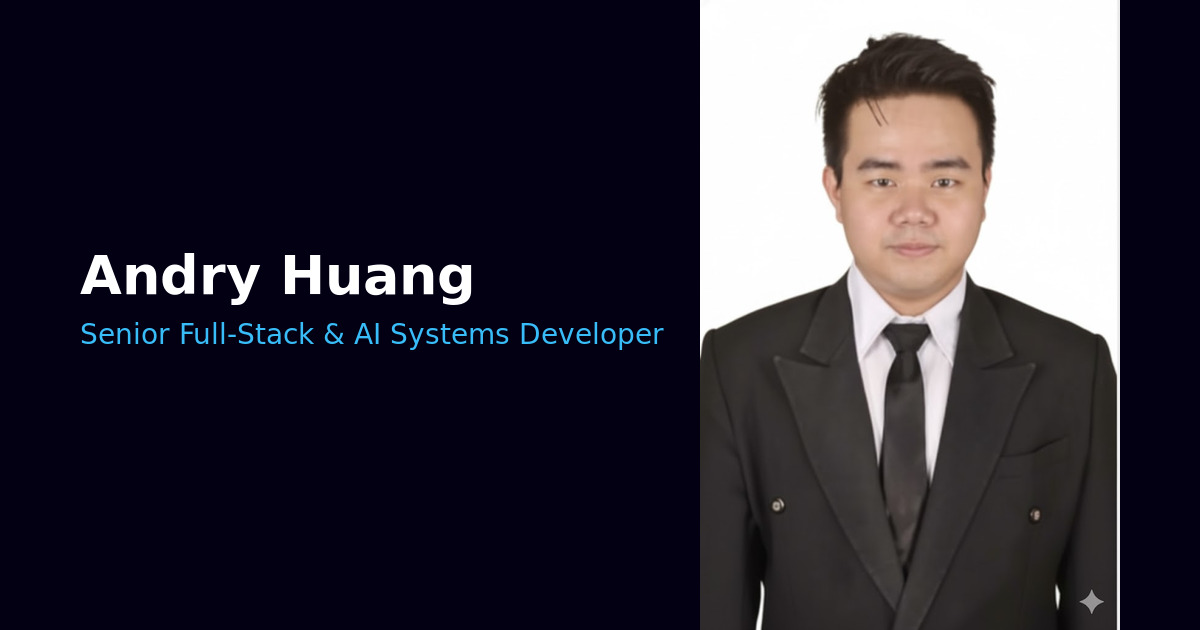
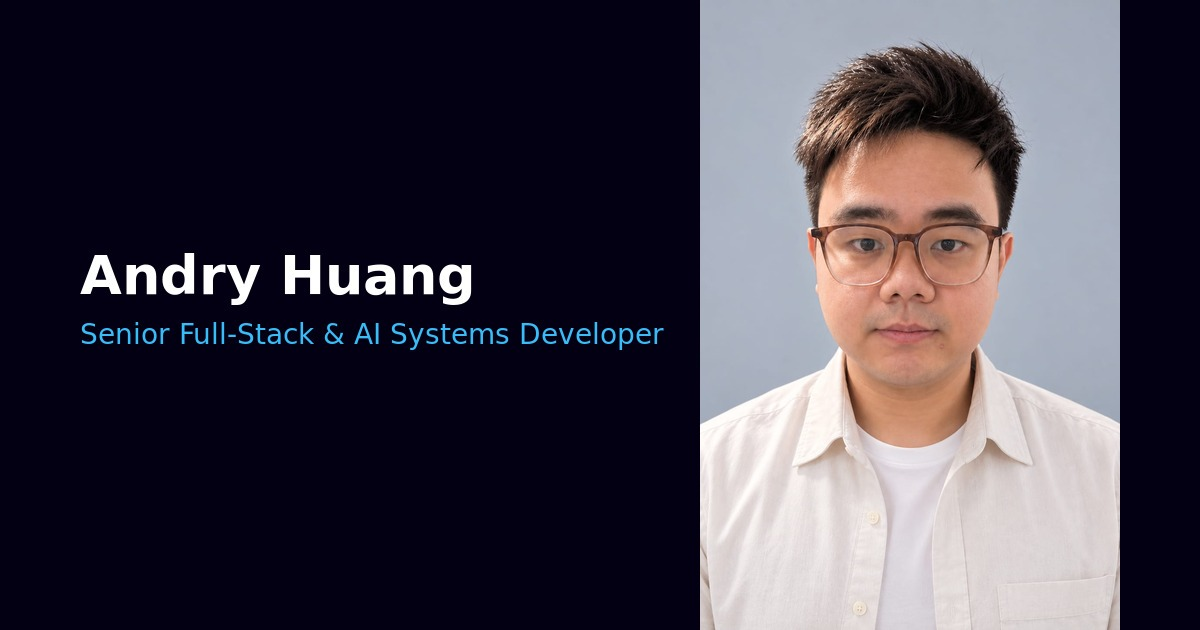
fix: update og image with current profile photo and add cache buster

diff --git a/src/app/layout.tsx b/src/app/layout.tsx
@@ -74,7 +74,7 @@ export const metadata: Metadata = {
     siteName: "Andry Huang Portfolio",
     images: [
       {
-        url: "/img/og-image.jpg",
+        url: "/img/og-image.jpg?v=2",
         width: 1200,
         height: 630,
         alt: "Andry Huang, Senior Full-Stack & AI Engineer",
@@ -87,7 +87,7 @@ export const metadata: Metadata = {
     description:
       "Senior Full-Stack & AI Engineer in Indonesia. 7+ years building enterprise SaaS, AI tools, and POS systems.",
     creator: "@andryhuang",
-    images: ["/img/og-image.jpg"],
+    images: ["/img/og-image.jpg?v=2"],
   },
   robots: {
     index: true,

diff --git a/src/lib/og.ts b/src/lib/og.ts
@@ -1,4 +1,4 @@
 // A page-level `openGraph` replaces the root layout's whole block (images included), so pages pass these again.
 export const OG_IMAGES = [
-  { url: "/img/og-image.jpg", width: 1200, height: 630, alt: "Andry Huang, Senior Full-Stack & AI Engineer" },
+  { url: "/img/og-image.jpg?v=2", width: 1200, height: 630, alt: "Andry Huang, Senior Full-Stack & AI Engineer" },
 ];
